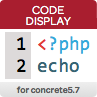
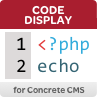
Increment package number, updates from previously updated version

diff --git a/blocks/msv_code_display/view.css b/blocks/msv_code_display/view.css
@@ -12,5 +12,5 @@
 }
 
 .msv-code-display .ace_hidden-cursors {
-    opacity: 0
+    opacity:0
 }

diff --git a/blocks/msv_code_display/controller.php b/blocks/msv_code_display/controller.php
@@ -1,11 +1,7 @@
 <?php
-
 namespace Concrete\Package\MsvCodeDisplay\Block\MsvCodeDisplay;
-
 use Concrete\Core\Block\BlockController;
-use Symfony\Component\HttpFoundation\Session\Session;
 use Concrete\Core\Editor\LinkAbstractor;
-use Core;
 
 class Controller extends BlockController
 {
@@ -35,7 +31,8 @@ class Controller extends BlockController
 
     public function view()
     {
-        $this->set('unique_identifier', Core::make('helper/validation/identifier')->getString(18));
+        $app = \Concrete\Core\Support\Facade\Application::getFacadeApplication();
+        $this->set('unique_identifier',$app->make('helper/validation/identifier')->getString(18));
 
         if ($this->description) {
             $this->set('description', LinkAbstractor::translateFrom($this->description));
@@ -45,19 +42,21 @@ class Controller extends BlockController
     public function add()
     {
         $this->edit();
-
-        $session = Core::make('app')->make('session');
+        $app = \Concrete\Core\Support\Facade\Application::getFacadeApplication();
+        $this->set('app', $app);
+        $session = $app->make('session');
         $this->set('lastFontSize', $session->get('msv_code_display.lastFontSize'));
         $this->set('lastLanguage', $session->get('msv_code_display.lastLanguage'));
         $this->set('lastTheme', $session->get('msv_code_display.lastTheme'));
         $this->set('lastShowLineNumbers', $session->get('msv_code_display.lastShowLineNumbers'));
         $this->set('lastlineWrapping', $session->get('msv_code_display.lastlineWrapping'));
-
     }
 
     public function edit()
     {
         $this->requireAsset('ace');
+        $app = \Concrete\Core\Support\Facade\Application::getFacadeApplication();
+        $this->set('app', $app);
     }
 
     public function registerViewAssets($outputContent = '')
@@ -73,7 +72,8 @@ class Controller extends BlockController
 
     public function save($args)
     {
-        $session = Core::make('app')->make('session');
+        $app = \Concrete\Core\Support\Facade\Application::getFacadeApplication();
+        $session = $app->make('session');
         $session->set('msv_code_display.lastFontSize', $this->getRequest()->get('fontSize'));
         $session->set('msv_code_display.lastLanguage', $this->getRequest()->get('language'));
         $session->set('msv_code_display.lastTheme', $this->getRequest()->get('theme'));

diff --git a/controller.php b/controller.php
@@ -10,8 +10,8 @@ class Controller extends Package
 {
 
     protected $pkgHandle = 'msv_code_display';
-    protected $appVersionRequired = '5.7.5.2';
-    protected $pkgVersion = '1.0.3';
+    protected $appVersionRequired = '8.0';
+    protected $pkgVersion = '1.1';
 
     public function getPackageDescription()
     {

diff --git a/README.md b/README.md
@@ -1,5 +1,5 @@
-# msv_code_display
-A block to add code snippets to a concrete5.7 website
+# Code Display
+A block to add code snippets to a Concrete website
 
-Download the zip of add-on and unzip to the top level /packages folder of your concrete5 install. Rename the folder to msv_code_display and install via the dashboard.
+Download the zip of add-on and unzip to the top level /packages folder of your Concrete install. Rename the folder to msv_code_display and install via the dashboard.
 
